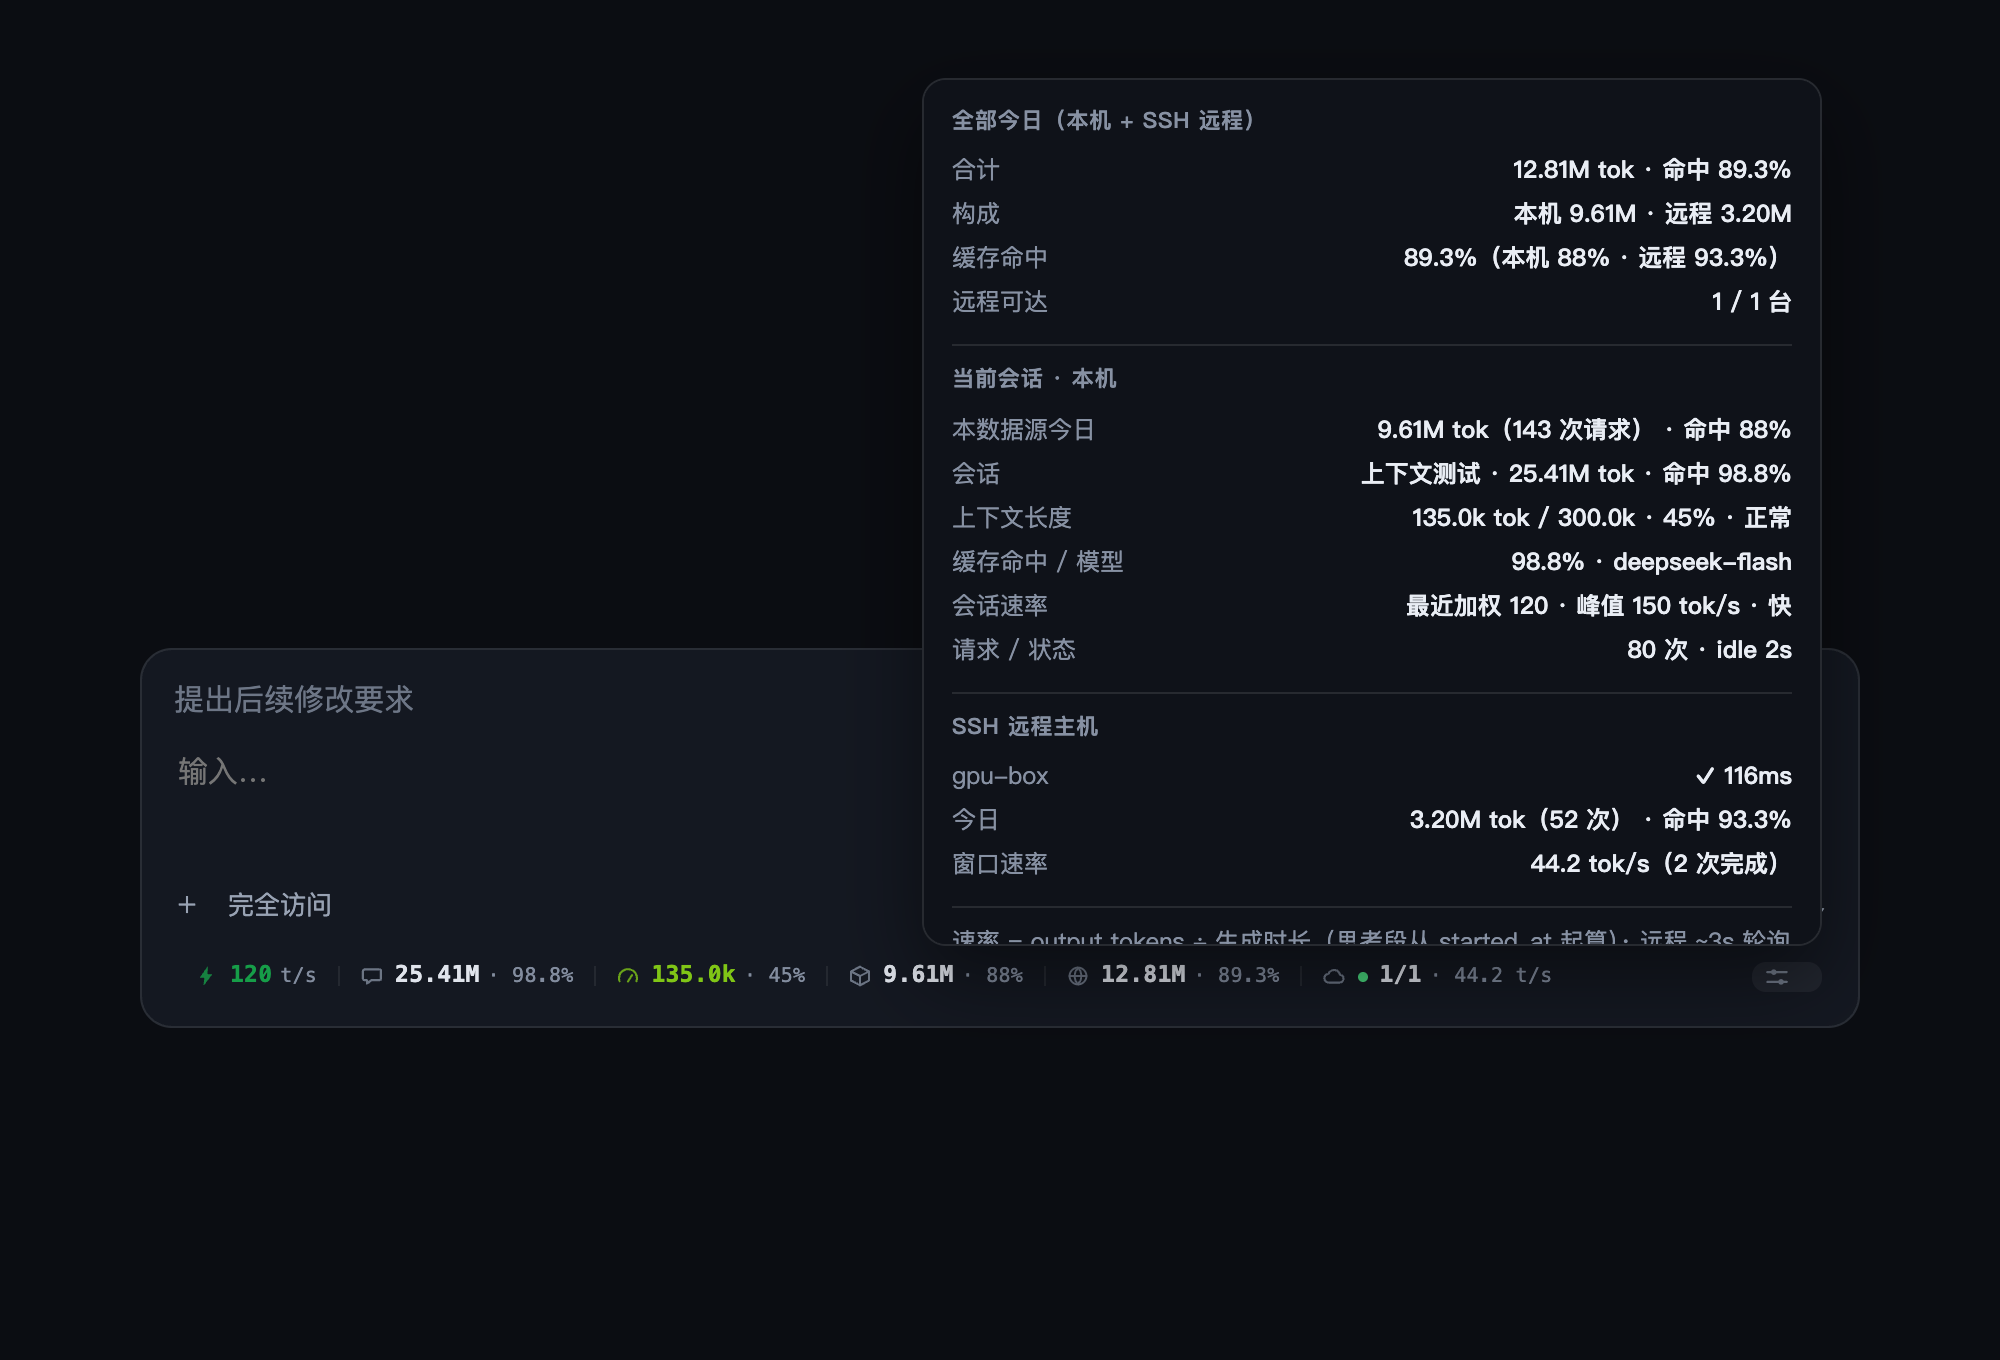
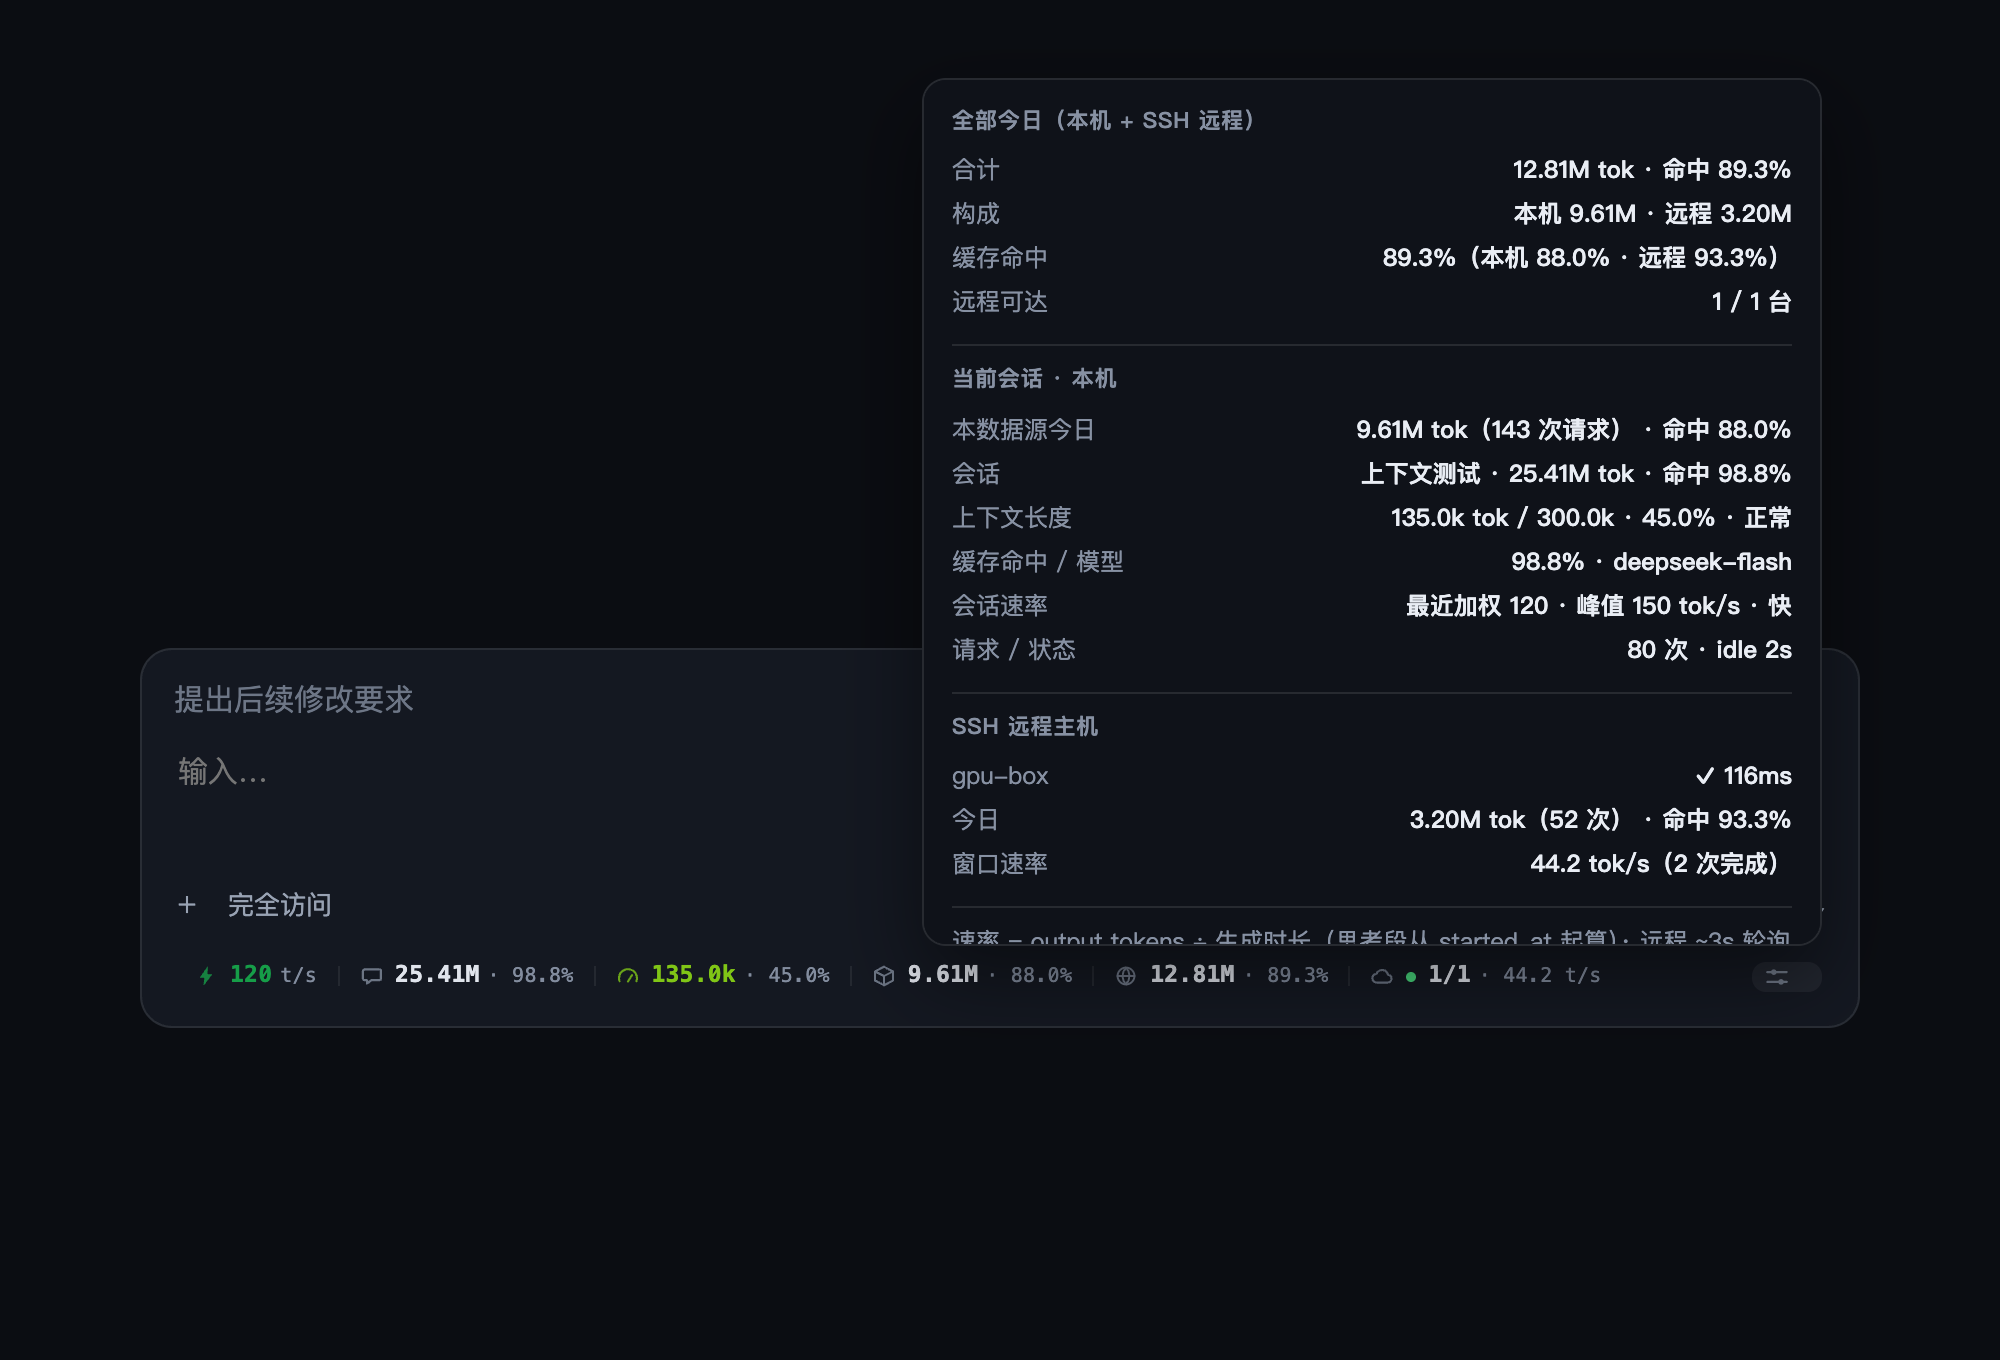
Release 1.1.12: one-decimal percentages everywhere
- All percentage values now use exactly one decimal place: 45.0%, 88.0%,
  98.8%, 89.3%, in the status bar, hover tooltips and the details panel.
- Context percentage is rounded to one decimal before display and color
  grading, so the number and tier stay consistent.
- Screenshots refreshed.

diff --git a/plugins/zcode-token-monitor/overlay.js b/plugins/zcode-token-monitor/overlay.js
@@ -224,7 +224,8 @@
     return merged;
   }
   function fmtPct(v) {
-    return (v == null || isNaN(v)) ? "—" : (Math.round(v * 10) / 10) + "%";
+    var n = Number(v);
+    return (v == null || !isFinite(n)) ? "—" : n.toFixed(1) + "%";
   }
   /* 缓存命中率：cache_read / input；input 为 0 时返回 null（不显示单位） */
   function hitPct(cache, input) {
@@ -597,7 +598,7 @@
     var ctxWin = contextWindowFor(ctxModel, (!selModel || selMatches) ? (cur && cur.contextWindow) : 0,
       selModel ? selProvider : "", contextWindowsFor(view, isRemote));
     var ctxRawPct = (ctxWin && cur && cur.context) ? cur.context * 100.0 / ctxWin : null;
-    var ctxRawR = (ctxRawPct == null) ? null : Math.round(ctxRawPct);
+    var ctxRawR = (ctxRawPct == null) ? null : Math.round(ctxRawPct * 10) / 10;
     var ctxTone = contextTone(ctxRawR);   // 颜色按实际占用率分级
     var remotes = remoteList();
     var remoteToday = 0, remoteOk = 0, remoteErr = 0, remoteCache = 0, remoteInput = 0;
@@ -640,7 +641,7 @@
         " tok" + (cur.cacheHitRate == null ? "" : " · 命中 " + fmtPct(cur.cacheHitRate)));
       addRow(srcSec, "上下文长度", cur.context
         ? fmtTok(cur.context) + " tok" +
-          (ctxWin ? " / " + fmtTok(ctxWin) + " · " + ctxRawR + "%" : "") +
+          (ctxWin ? " / " + fmtTok(ctxWin) + " · " + fmtPct(ctxRawR) : "") +
           (ctxWin ? " · " + ctxTone.label : "") +
           (selModel && baseModel && !selMatches ? " · 已切换模型" : "")
         : "暂无完成请求");
@@ -798,7 +799,7 @@
       ? (mine ? mine.contextWindowSource : (cur && cur.contextWindowSource))
       : (ctxWin ? "model-selection" : "");
     var ctxRawPct = (ctxWin && ctxVal) ? ctxVal * 100.0 / ctxWin : null;
-    var ctxRawR = (ctxRawPct == null) ? null : Math.round(ctxRawPct);
+    var ctxRawR = (ctxRawPct == null) ? null : Math.round(ctxRawPct * 10) / 10;
     var ct = contextTone(ctxRawR);   // 颜色按实际占用率分级，避免 45% 仍显示绿色
     if (hasSession) {
       var srcLabels = {
@@ -811,7 +812,7 @@
       var ctxTip = ["上下文长度",
         "当前会话最近一次完成请求的输入 token 数（含缓存读），也是下一轮请求的基础上下文。",
         "当前 " + (ctxVal ? fmtTok(ctxVal) + " tok" : "暂无完成请求") +
-          (ctxWin ? " / " + fmtTok(ctxWin) + "（" + ctxRawR + "%）" : "") +
+          (ctxWin ? " / " + fmtTok(ctxWin) + "（" + fmtPct(ctxRawR) + "）" : "") +
           (ctxModel ? " · 模型 " + ctxModel : ""),
         ctxWin ? "占用等级（颜色分级）：" + ct.label : "未找到该模型的上下文窗口配置，仅显示绝对值。",
         ctxWin ? "窗口取自" + (srcLabels[ctxSrc] || "ZCode 模型目录") + "；数字与颜色都按实际占用率计算。"
@@ -825,7 +826,7 @@
       }
       if (mine && mine.running) ctxTip.push("⚡ 生成中，完成后更新。");
       setGroup(ui.ctx, ctxVal ? fmtTok(ctxVal) : "—",
-        ctxWin && ctxVal ? "· " + ctxRawR + "%" : "", { tip: ctxTip });
+        ctxWin && ctxVal ? "· " + fmtPct(ctxRawR) : "", { tip: ctxTip });
       if (ct.color) ui.ctx.g.style.setProperty("--tokmon-ctx-color", ct.color);
       else ui.ctx.g.style.removeProperty("--tokmon-ctx-color");
       ui.ctx.g.style.display = "";

diff --git a/README.md b/README.md
@@ -31,7 +31,7 @@ Tokmon（**Tok**en **Mon**itor）把 ZCode 的 token 消耗和生成速度变成
 - **全部今日**：🌐 本机 + 所有可达 SSH 远程主机的今日合计，远程失败时标黄并提示。
 - **远程健康**：☁ 成功/总主机数 + 远端窗口速率；明细面板可看每台主机的延迟、今日、会话速率。
 - **明细面板**：⚙ 固定在齿轮旁，当前会话、上下文、速率、请求/状态、各远程主机详情。
-- **悬停说明**：每个数字都有自绘说明卡片；速率与上下文色阶用「色块 + 等级 + 范围」图例呈现，当前档位高亮。**流式输出自动滚动时提示保持显示**，并跟随数据条位置更新。
+- **悬停说明**：每个数字都有自绘说明卡片；速率与上下文色阶用「色块 + 等级 + 范围」图例呈现，当前档位高亮。**流式输出自动滚动时提示保持显示**，并跟随数据条位置更新。所有百分比统一保留一位小数（如 `45.0%`、`88.0%`）。
 - **三种形态**：悬浮状态条、MCP 工具、终端实时面板。
 
 | 明细面板 | 悬停说明（上下文色阶） |
@@ -247,6 +247,7 @@ python3 tests/test_config.py && python3 tests/test_model_context.py
 
 ## 版本历史
 
+- **1.1.12** — 数据条、悬停提示与明细面板里的所有百分比统一保留一位小数。
 - **1.1.11** — 流式输出滚动时悬停提示保持显示并跟随数据条；移出后重新移入同一项也能再次弹出。
 - **1.1.10** — 当前聊天窗口切换模型后立即按新模型窗口重算上下文百分比，不必等下一条请求或新会话。
 - **1.1.9** — 上下文窗口改为按所选模型的 ZCode 模型配置（provider + model）计算，不再固定 1M；本地与 SSH 远端各读本机配置。

diff --git a/CHANGELOG.md b/CHANGELOG.md
@@ -2,6 +2,11 @@
 
 All notable changes to Tokmon are documented here.
 
+## 1.1.12 — 2026-10-19
+
+- All percentage values in the status bar, hover tooltips and details panel now
+  use exactly one decimal place (e.g. 45.0%, 88.0% instead of 45%, 88%).
+
 ## 1.1.11 — 2026-10-19
 
 - Hover tooltips stay open while the chat auto-scrolls during streaming, and
